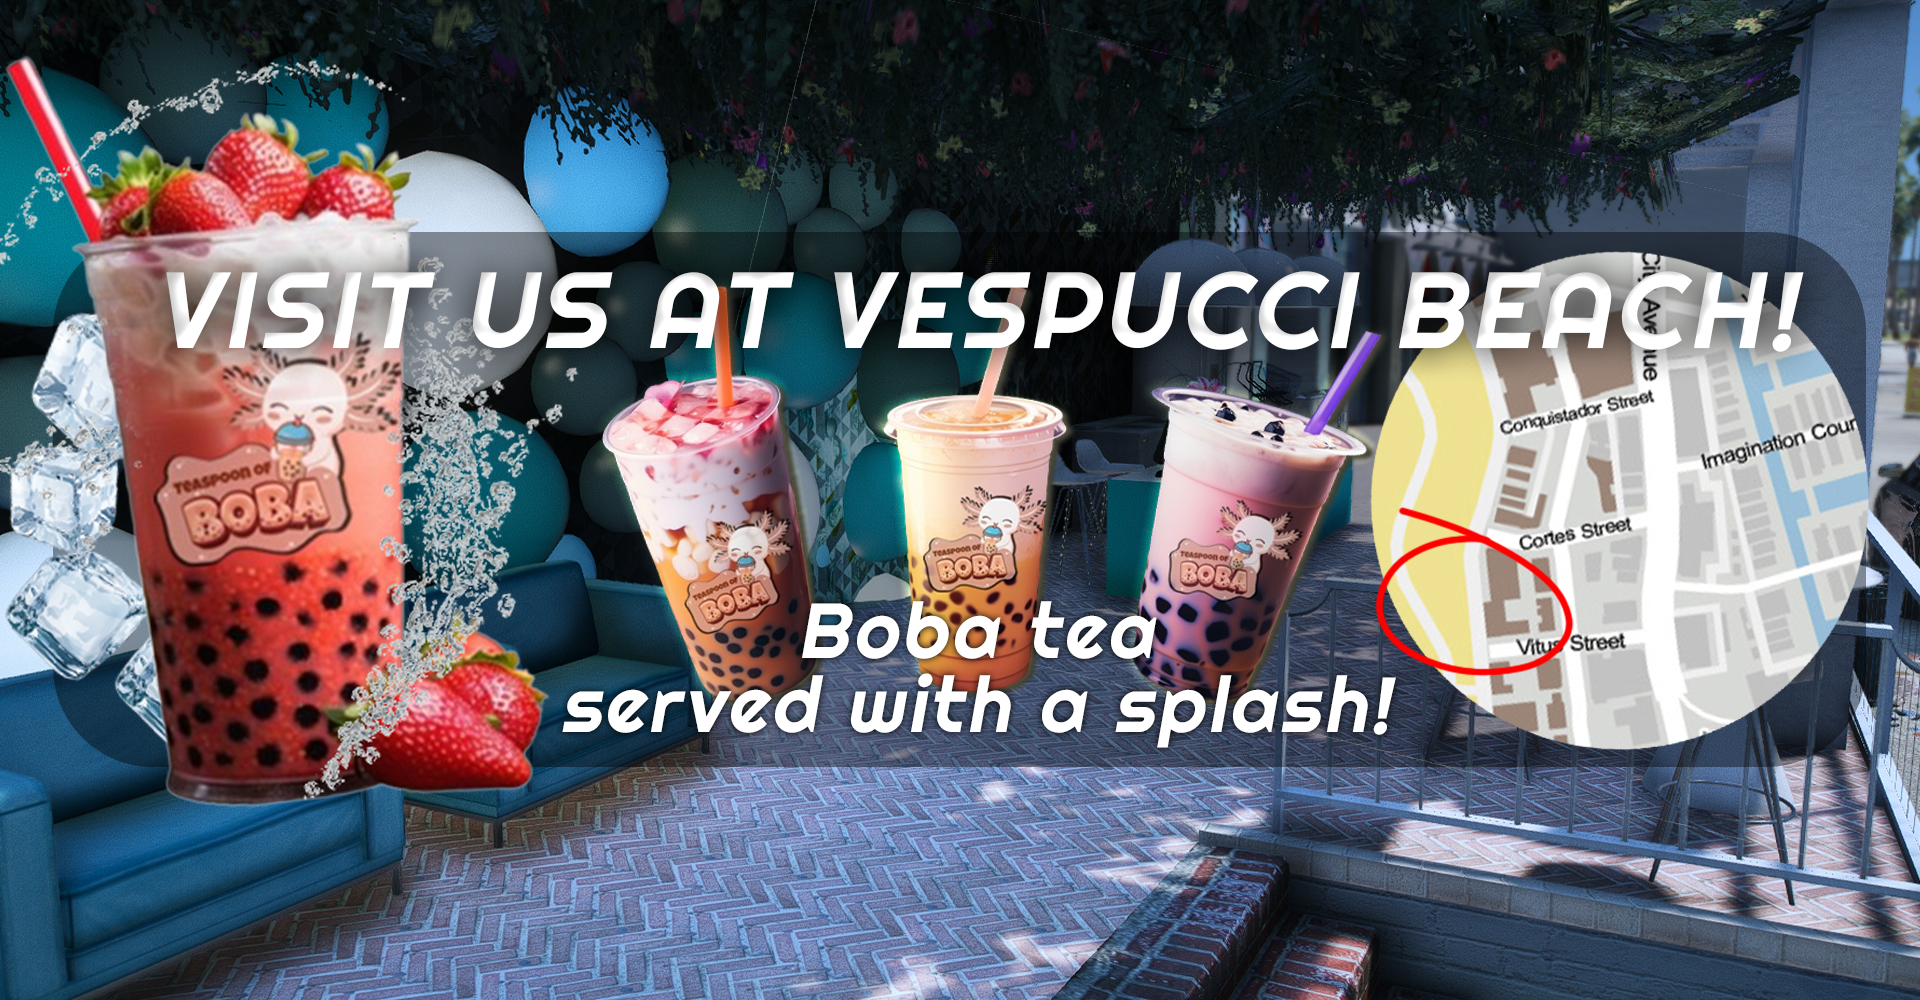
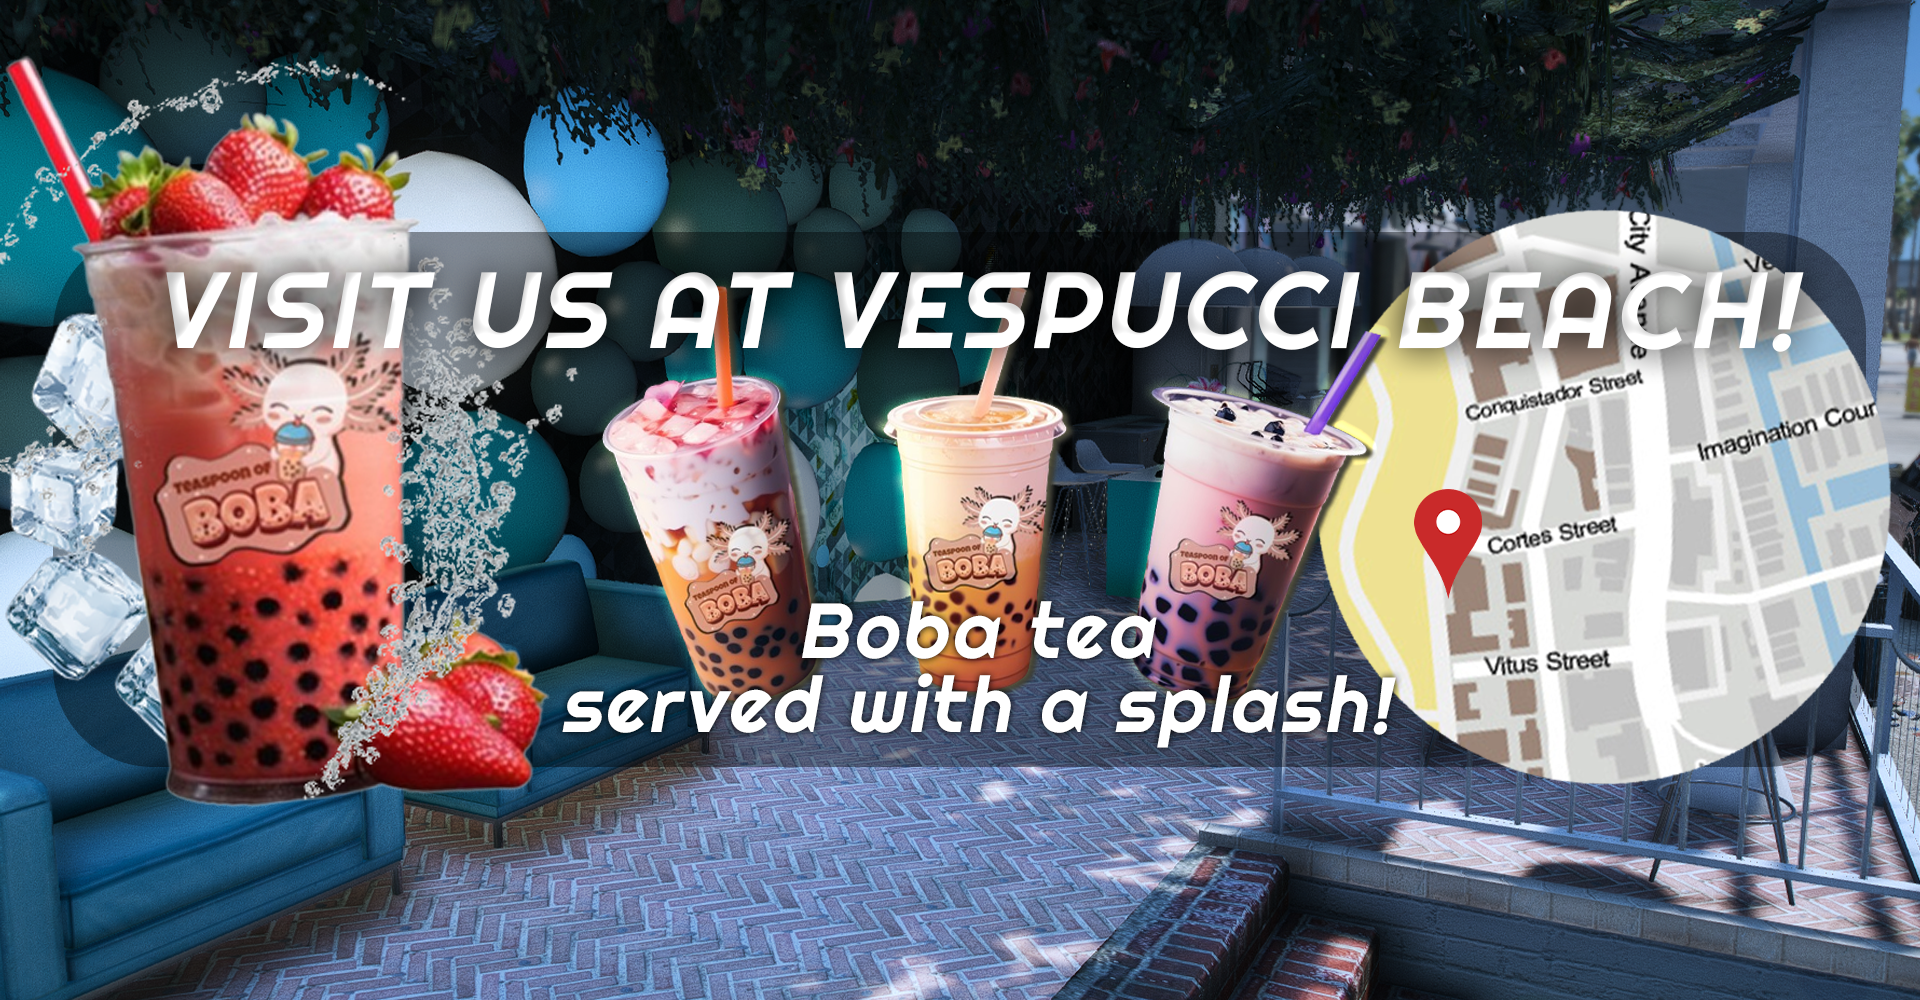
3.0

Changed region(s): [[0.6875, 0.186, 1.0, 0.806]]

diff --git a/style.css b/style.css
@@ -7,35 +7,153 @@
 
 html{
   margin: auto;
-  background-image: linear-gradient(to top, #fbc2eb 0%, #a6c1ee 100%);
 }
 
 body{
   margin: auto;
+  background-image: url(/img/background2.png);
+  background-repeat: no-repeat;
+  background-attachment: fixed;
+}
+
+h1{
+  font-family: "Righteous", sans-serif;
+  font-weight: 400;
+  font-style:  italic;
+}
+
+p{
+  font-family: "Titillium Web", sans-serif;
+  font-weight: 600;
+  font-style: normal;
+}
+
+/*INDEX*/
+
+.swiffy-slider{
+  filter: drop-shadow(0px 0px 15px #000000);
+}
+
+.homepage p{
+  font-family: "Titillium Web", sans-serif;
+  font-weight: 600;
+  font-style: normal;
+  font-size: 32px;
+  text-shadow: 1px 1px 1px white;
+}
+
+.homepage button{
+  font-family: "Righteous", sans-serif;
+  font-weight: 400;
+  font-size: 30px;
+  color: rgba(171,134,150,1);
+  text-shadow: 1px 1px 2px black;
+  height: 100px;
+  background-color: #d49d8f00;
+  border-radius: 25px;
+  border: solid 2px #f4fcff;
+  box-shadow: 1px 1px 10px rgb(51, 51, 51);
+  transition: 0.5s;
+}
+
+.homepage button:hover{
+  text-shadow: 0px 0px 0px black;
+  color: black;
+  background-color: #f4fcff;
+  cursor: pointer;
 }
 
 .intro{
   margin: auto;
   width: 95%;
-  background-color: #00000050;
-  border-radius: 30px;
+  /*background: linear-gradient(0deg, rgba(237,170,200,1) 0%, rgba(171,134,150,1) 100%);*/
+  /*border-radius: 30px;*/
+  /*border: double 5px #f4fcff;*/
   text-align: center;
+  margin-bottom: 10px;
+  padding: 4px;
 }
 
-.intro p{
-  font-family: "Titillium Web", sans-serif;
-  font-weight: 600;
-  font-style: normal;
-  font-size: 18px;
+.buttons{
+  display: flex;
+  padding: 5px;
+  width: 100%;
+  justify-content: space-around;
+}
+
+.buttons button:hover{
+  cursor: pointer;
 }
 
 .logo{
-  width: 300px;
+  z-index: 999;
+  filter: drop-shadow(5px 5px 5px #363636);
+  width: 100%;
 }
 
+.location{
+  margin: auto;
+  width: 95%;
+  background: linear-gradient(180deg, rgba(237,170,200,1) 0%, rgba(171,134,150,1) 100%);
+  border-radius: 30px;
+  border: double 5px #f4fcff;
+  text-align: center;
+}
+
+.location-circle{
+  filter: drop-shadow(1px 1px 5px #000000);
+  width: 100%;
+}
+
+.go-menu{
+  position: fixed;
+  bottom: 0;
+  right: 0;
+  margin: 10px;
+  z-index: 99999;  
+  }
+  
+  .go-menubtn{
+    color: #f4fcff;
+    background-color: #d49d8f;
+    font-size: 24px;
+    padding: 10px;
+    border: 1px solid #f4fcff;
+    border-radius: 200px;
+    transition: 0.5s;
+  }
+  
+  .go-menubtn:hover{
+    font-size: 38px;
+    padding: 16px;
+    cursor: pointer;
+    box-shadow: 1px 1px 5px black;
+    border: 5px solid #f4fcff;
+  }
 
 
 /*MENU*/
+
+/*.menu-all{
+  background-color: white;
+}*/
+
+.menuintro{
+  text-align: center;
+  margin-bottom: 75px;
+}
+
+.menuintro h1{
+  text-shadow: 1px 5px 5px rgba(237,170,200,1);
+  margin: 0;
+  font-size: 70px;
+}
+
+.menuintro p{
+  font-size: 25px;
+  text-shadow: 1px 3px rgba(237,170,200,1);
+  padding-bottom: 50px;
+}
 
 .gohome{
 position: fixed;
@@ -67,19 +185,14 @@ z-index: 99999;
 overflow: hidden;
 width: 100%;
 }
-
 .menu-all h1{
-  font-family: "Righteous", sans-serif;
-  font-weight: 400;
-  font-style:  italic;
-  font-size: 25px;
-    }
+  border-radius: 25px;
+  border: solid 1px black;
+  font-size: 35px;
+  }
 
 .menu-all p{
-  font-family: "Titillium Web", sans-serif;
-  font-weight: 600;
-  font-style: normal;
-  font-size: 20px;
+  font-size: 22px;
     }
 
     .menuitem{
@@ -89,12 +202,12 @@ width: 100%;
       flex-direction: column;
       justify-content: space-evenly;
       text-align: center;
-      border: 2px solid white;
     }
 
 /*menu*/
 
 .menu-text{
+  text-shadow: 2px 2px 10px rgba(237,170,200,1);
   font-size: 0px;
   opacity: 0;
   transition: 1.5s;
@@ -114,7 +227,8 @@ width: 100%;
 /*BIG ICONS*/
 
 .icon-mobile{
-  margin-left: 68px;
+  filter: drop-shadow(1px 1px 3px #363636);
+  margin: auto;
   width: 200px;
   height: 200px;
   transition: 1s ease;
@@ -139,6 +253,7 @@ width: 100%;
     margin: auto;
     width: 75px;
     height: 75px;
+    filter: drop-shadow(1px 1px 1px #363636);
 }
 
 .ing-slide{
@@ -158,4 +273,25 @@ width: 100%;
 }
 .ing-slide:nth-child(4){
   transition-delay: 600ms;
+}
+
+.logo-menu{
+  filter: drop-shadow(5px 5px 5px #363636);
+  position: absolute;
+  width: 80%;
+  top: 0;
+  right: 0;
+  z-index: -1;
+  opacity: 0.4;
+}
+
+.menubreak{
+  height: 1px;
+  background: black;
+  border: none;
+  outline: none;
+  margin: 3em 3em 5em;
+  position: relative;
+  width: 50%;
+  margin: 3em auto;
 }

diff --git a/menu.html b/menu.html
@@ -23,6 +23,11 @@
 <div class="gohome">
     <a href="index.html"><button class="homebtn"><i class="fa-solid fa-house"></i></button></a>
 </div>
+<div class="menuintro">
+    <h1 class="title">Our Menu</h1>
+    <p>All of our have dairy free options <br> pick from a variety of milks such as <br> Almond, Coconut, Soy, Oat and Rice</p>
+    <img class="logo-menu" src="img/LOGO.png" alt="logo">
+</div>
 <div class="menu-all">
     <!---------------------------------SMOOTHIE----------------------------------->
 <div class="menuitem">
@@ -39,6 +44,7 @@
         </div>
     </div>
 </div>
+<hr class="menubreak">
 <!---------------------------------HIBISCUS----------------------------------->
 <div class="menuitem">
 <img class="icon-mobile" src="img/Hibiscus Website.png">
@@ -54,6 +60,7 @@
     </div>
     <img class="icon" src="img/Hibiscus Website.png">
 </div>
+<hr class="menubreak">
 <!---------------------------------TARO----------------------------------->
 <div class="menuitem">
 <img class="icon" src="img/Taro Website.png">
@@ -69,6 +76,7 @@
     </div>
 </div>
 </div>
+<hr class="menubreak">
 <!---------------------------------Classic----------------------------------->
 <div class="menuitem">
 <img class="icon-mobile" src="img/Milk website.png">
@@ -84,6 +92,7 @@
 </div>
 <img class="icon" src="img/Milk website.png">
 </div>
+<hr class="menubreak">
 <!---------------------------------STRAwBERRY----------------------------------->
 <div class="menuitem">
 <img class="icon" src="img/Strawberry Website.png">
@@ -91,11 +100,11 @@
 <div class="actual-item">
     <h1 class = "menu-text">Strawberry Tea</h1>
     <p class = "menu-text">Experience a delightful blend of sweet and tart with our Strawberry Green Tea, perfectly complemented by lychee boba pearls. Refreshing indulgence in every sip.</p>
-    <div class="ingredient">
-    <div class="ingredient"><img src="img/strawberry/strawberry.png"></div>
-    <div class="ingredient"><img src="img/strawberry/honey.png"></div>
-    <div class="ingredient"><img src="img/strawberry/balls.png"></div>
-    <div class="ingredient"><img src="img/strawberry/team.png"></div>
+        <div class="ingredient">
+        <div class="ingredient"><img src="img/strawberry/strawberry.png"></div>
+        <div class="ingredient"><img src="img/strawberry/honey.png"></div>
+        <div class="ingredient"><img src="img/strawberry/balls.png"></div>
+        <div class="ingredient"><img src="img/strawberry/team.png"></div>
     </div>
 </div>
 </div>     

diff --git a/index.html b/index.html
@@ -22,7 +22,10 @@
     <title>Teaspoon Of Boba</title>
 </head>
     <!---------------------------------BODY----------------------------------->
-    <body>
+    <body class="menu-body">
+        <div class="go-menu">
+            <a href="menu.html"><button class="go-menubtn"><i class="fa-brands fa-readme"></i></button></a>
+        </div>
         <div class="swiffy-slider">
             <ul class="slider-container">
                 <li><img src="img/carru/carru1.png" style="max-width: 100%;height: auto;"></a></li>
@@ -40,12 +43,27 @@
                 <button></button>
             </div>
         </div> 
-            <!---------------------------------MENU----------------------------------->    
+            <!---------------------------------MENU----------------------------------->
+            <div class="homepage">   
             <div class="intro">
                 <div>
                     <img class="logo" src="img/LOGO.png" alt="logo">
                 </div>
-                    <p>fancy words about our fancy business, bla bla bla bla bla bla bla bla bla bla bla bla bla bla bla bla bla bla bla bla bla bla bla bla bla bla bla bla bla bla bla bla bla bla bla bla bla bla bla</p>
+                <a href="menu.html"><button>Our Menu</button></a>
+                <p>We offer dairy free alternatives!</p>
+                <hr>
+                    <p>Teaspoon of Boba is your destination for exceptional boba experiences. 
+                        <br>From the rich depths of classic milk teas to the exotic notes of fruit-infused delights, each sip is a celebration of taste and texture. Join us in elevating your boba experience
+                        </p>
+                        <div class="buttons">
+                            <a href=""><button>Application</button></a>
+                            <a href=""><button>Contact us</button></a>
+                        </div>
             </div>
+            <div class="location">
+                <img  class="location-circle" src="img/location-circle.png" alt="loccirc">
+                <p>We are located on the beach front between Vitus and Cortes Street! Come visit us!</p>
+            </div>
+        </div> 
     </body>
 </html>
